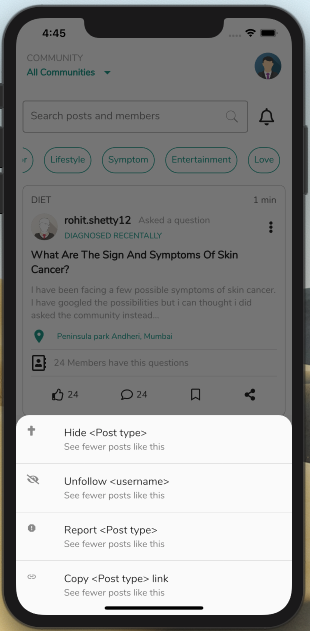
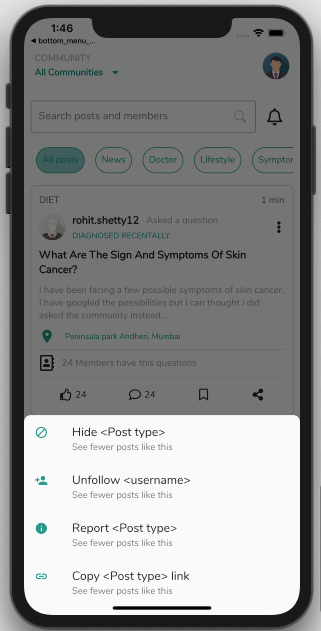
share and menu fixed

diff --git a/lib/ui/newsFeedPage/widgets/feedCard.dart b/lib/ui/newsFeedPage/widgets/feedCard.dart
@@ -179,7 +179,7 @@ Widget renderCategoryTime(Feed listFeed) {
 }
 
 _onCenterBottomMenuOn3DotsPressed(BuildContext context) {
-  //debugPrint('_buildBottomNavMenu');
+
   showModalBottomSheet(
       context: context,
       builder: (context) {
@@ -191,69 +191,47 @@ _onCenterBottomMenuOn3DotsPressed(BuildContext context) {
 }
 
 Widget _buildBottomNavMenu(BuildContext context) {
+
+  List<Menu3DotsModel> listMore = [];
+  listMore.add(Menu3DotsModel('Hide <Post type>', 'See fewer posts like this', Icons.block));
+  listMore.add(Menu3DotsModel('Unfollow <username>', 'See fewer posts like this', Icons.person_add));
+  listMore.add(Menu3DotsModel('Report <Post type>', 'See fewer posts like this', Icons.info));
+  listMore.add(Menu3DotsModel('Copy <Post type> link', 'See fewer posts like this', Icons.insert_link));
+
+
   return Container(
     height: 300,
     decoration: BoxDecoration(
       color: Theme.of(context).canvasColor,
       borderRadius: BorderRadius.only(
-        topLeft: const Radius.circular(20),
-        topRight: const Radius.circular(20),
+        topLeft: const Radius.circular(10),
+        topRight: const Radius.circular(10),
       ),
     ),
-    child: Column(
-      children: <Widget>[
-        ListTile(
-          leading: Icon(FontAwesomeIcons.cross, size: 15),
-          onTap: () {
-            print('hide');
-            Navigator.pop(context);
-          },
-          title: Text('Hide <Post type>'),
-          subtitle: Text('See fewer posts like this'),
-        ),
-        Divider(
-          height: 1,
-          color: Colors.grey[500],
-        ),
-        ListTile(
-          leading: Icon(
-            FontAwesomeIcons.solidEyeSlash,
-            size: 15,
-          ),
-          onTap: () {
-            print('Unfollow <username>');
-            Navigator.pop(context);
-          },
-          title: Text('Unfollow <username>'),
-          subtitle: Text('See fewer posts like this'),
-        ),
-        Divider(
-          height: 1,
-          color: Colors.grey[500],
-        ),
-        ListTile(
-          leading: Icon(Icons.report, size: 15),
-          onTap: () {
-            print('Report');
-            Navigator.pop(context);
-          },
-          title: Text('Report <Post type>'),
-          subtitle: Text('See fewer posts like this'),
-        ),
-        Divider(
-          height: 1,
-          color: Colors.grey[500],
-        ),
-        ListTile(
-          leading: Icon(Icons.link, size: 15),
-          onTap: () {
-            debugPrint('Copy <Post type> link');
-            Navigator.pop(context);
-          },
-          title: Text('Copy <Post type> link'),
-          subtitle: Text('See fewer posts like this'),
-        ),
-      ],
-    ),
+
+      child: ListView.builder(
+        itemCount: listMore.length,
+          itemBuilder: (BuildContext context, int index){
+        return ListTile(
+          title: Text(listMore[index].title, style: TextStyle(fontSize: 18),),
+          subtitle: Text(listMore[index].subtitle),
+          leading: Icon(listMore[index].icons, size: 20, color: Colors.teal,),
+        );
+      })
+
+
   );
+}
+
+
+
+class Menu3DotsModel{
+
+  String title;
+  String subtitle;
+  IconData icons;
+
+  Menu3DotsModel(this.title, this.subtitle, this.icons);
+
+
 }

diff --git a/lib/ui/loginPage/login.dart b/lib/ui/loginPage/login.dart
@@ -31,7 +31,7 @@ class _HealthNestLoginState extends State<HealthNestLogin> {
       child: Align(
         alignment: Alignment.bottomCenter,
         child: formUI(),
-      )//formUI(),
+      )
     );
   }
 
@@ -142,6 +142,7 @@ class _HealthNestLoginState extends State<HealthNestLogin> {
         Expanded(
           flex: 2,
           child: TextFormField(
+
             maxLength: 10,
             keyboardType: TextInputType.number,
             onChanged: (String newVal) {
